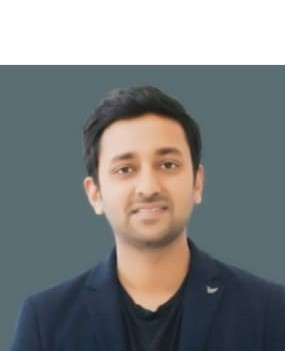
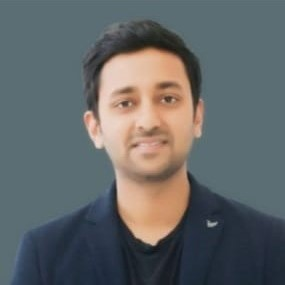
change

diff --git a/index.html b/index.html
@@ -414,7 +414,7 @@
             <!-- <div class="block-speaker"> -->
             <div class="block-img overlay soft">
                <div class="background-img" id="guest">
-                  <img src="img/samuel1.jpeg" alt="">
+                  <img src="img/WhatsApp Image 2022-09-13 at 11.45.52 PM.jpeg" alt="" height="80%">
                </div>
                <div class="block-info-2">
                   <p>
@@ -726,10 +726,10 @@
 
          <div class="row time-svg">
             <div class="col-12" style="padding: 0; width: 100%;">
-               <img src="webm/timeline pc (1)-min.png" alt="" class="sch">
+               <img src="img/timeline/timeline pc (3).webp" alt="" class="sch">
             </div>
             <div class="col-12" style="padding: 0;" id="tim-mobile">
-               <img src="webm/timeline mobile (1)-min.webp" alt="" class="sch-mob">
+               <img src="img/timeline/timeline mobile (4).webp" alt="" class="sch-mob">
             </div>
             <center>
                <div class="block-info-1">
@@ -986,19 +986,7 @@
                </div>
             </div>
          </div>
-         <div title="Click to flip" class="sponsor">
-            <div class="sponsorFlip">
-               <img alt="More about google" src="img/sponser/axure-2.webp" width="80%" style="padding-top:30% ;">
-            </div>
-
-            <div class="sponsorData">
-               <div class="sponsorDescription">
-               </div>
-               <div class="sponsorURL">
-                  <a href="https://www.axure.com/">https://www.axure.com/ </a>
-               </div>
-            </div>
-         </div>
+         
       </div>
       <center>
          <div class="platinum-img">
@@ -1204,6 +1192,19 @@
                </div>
             </div>
          </div>
+         <div title="Click to flip" class="sponsor">
+            <div class="sponsorFlip">
+               <img alt="More about google" src="img/sponser/axure-2.webp" width="80%" style="padding-top:30% ;">
+            </div>
+
+            <div class="sponsorData">
+               <div class="sponsorDescription">
+               </div>
+               <div class="sponsorURL">
+                  <a href="https://www.axure.com/">https://www.axure.com/ </a>
+               </div>
+            </div>
+         </div>
       </div>
 
 
@@ -1346,7 +1347,7 @@
             <div class="col-md-5 col-md-offset-7 col-sm-5 col-sm-offset-7">
                <div class="block-info-3">
                   <p>
-                     Plot No. IS-2036 to IS-2039 Ramchandrapura Industrial Area Jaipur, Sitapura, Vidhani, Rajasthan -
+                     JECRC Foundation,Sitapura Industrial Area Jaipur, Sitapura, Vidhani, Rajasthan -
                      303905.<br><br>
                      Kushagra Gupta: +91 - 9264976915 <br>
                      Aditya Shekhawat: +91 - 90012 25410<br>
